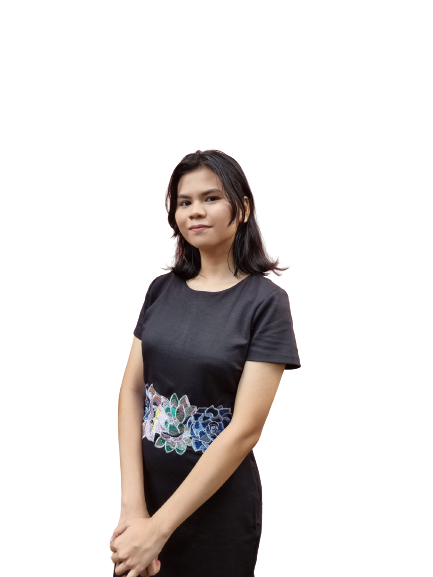
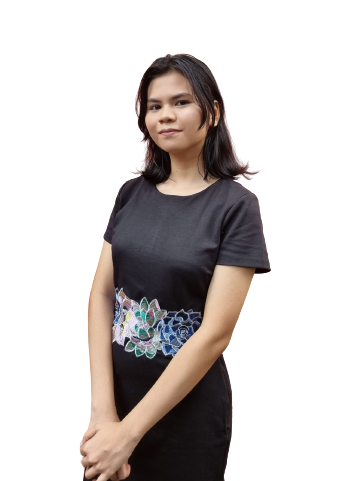
.

Changed region(s): [[0.2133, 0.0936, 0.7618, 1.0]]

diff --git a/web.html b/web.html
@@ -18,7 +18,7 @@
                 <div class="profile-box">
                     <div class="item">
                         <div class="photo">
-                            <img src="images/photo.JPG" alt="Profile picture">   
+                            <img src="images/Photo.png" alt="Profile picture">   
                         </div>
 
                     </div>
